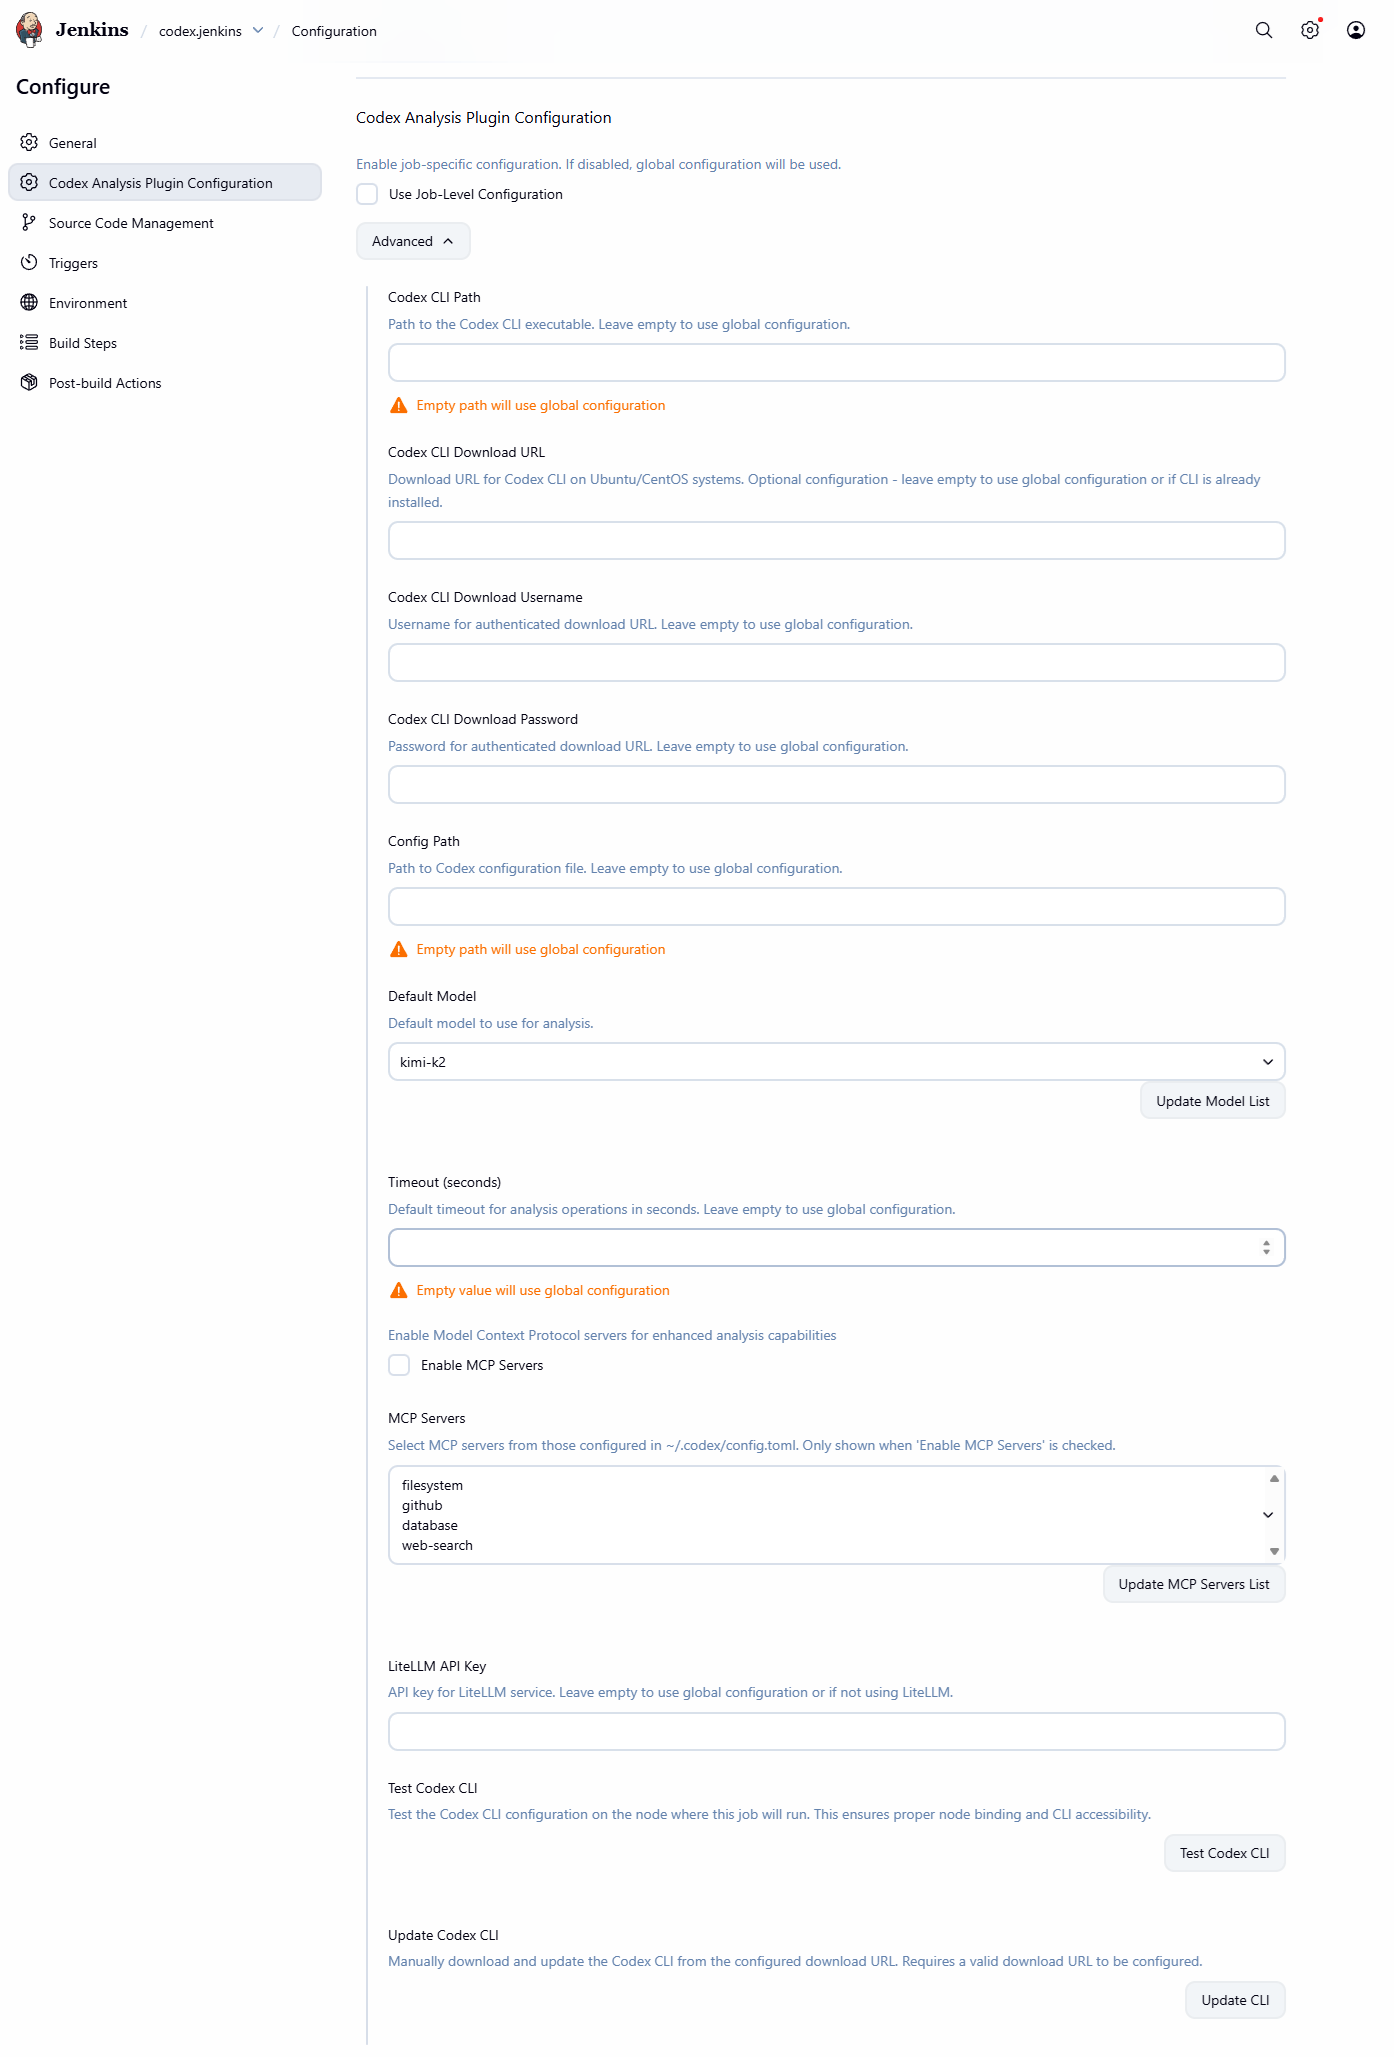
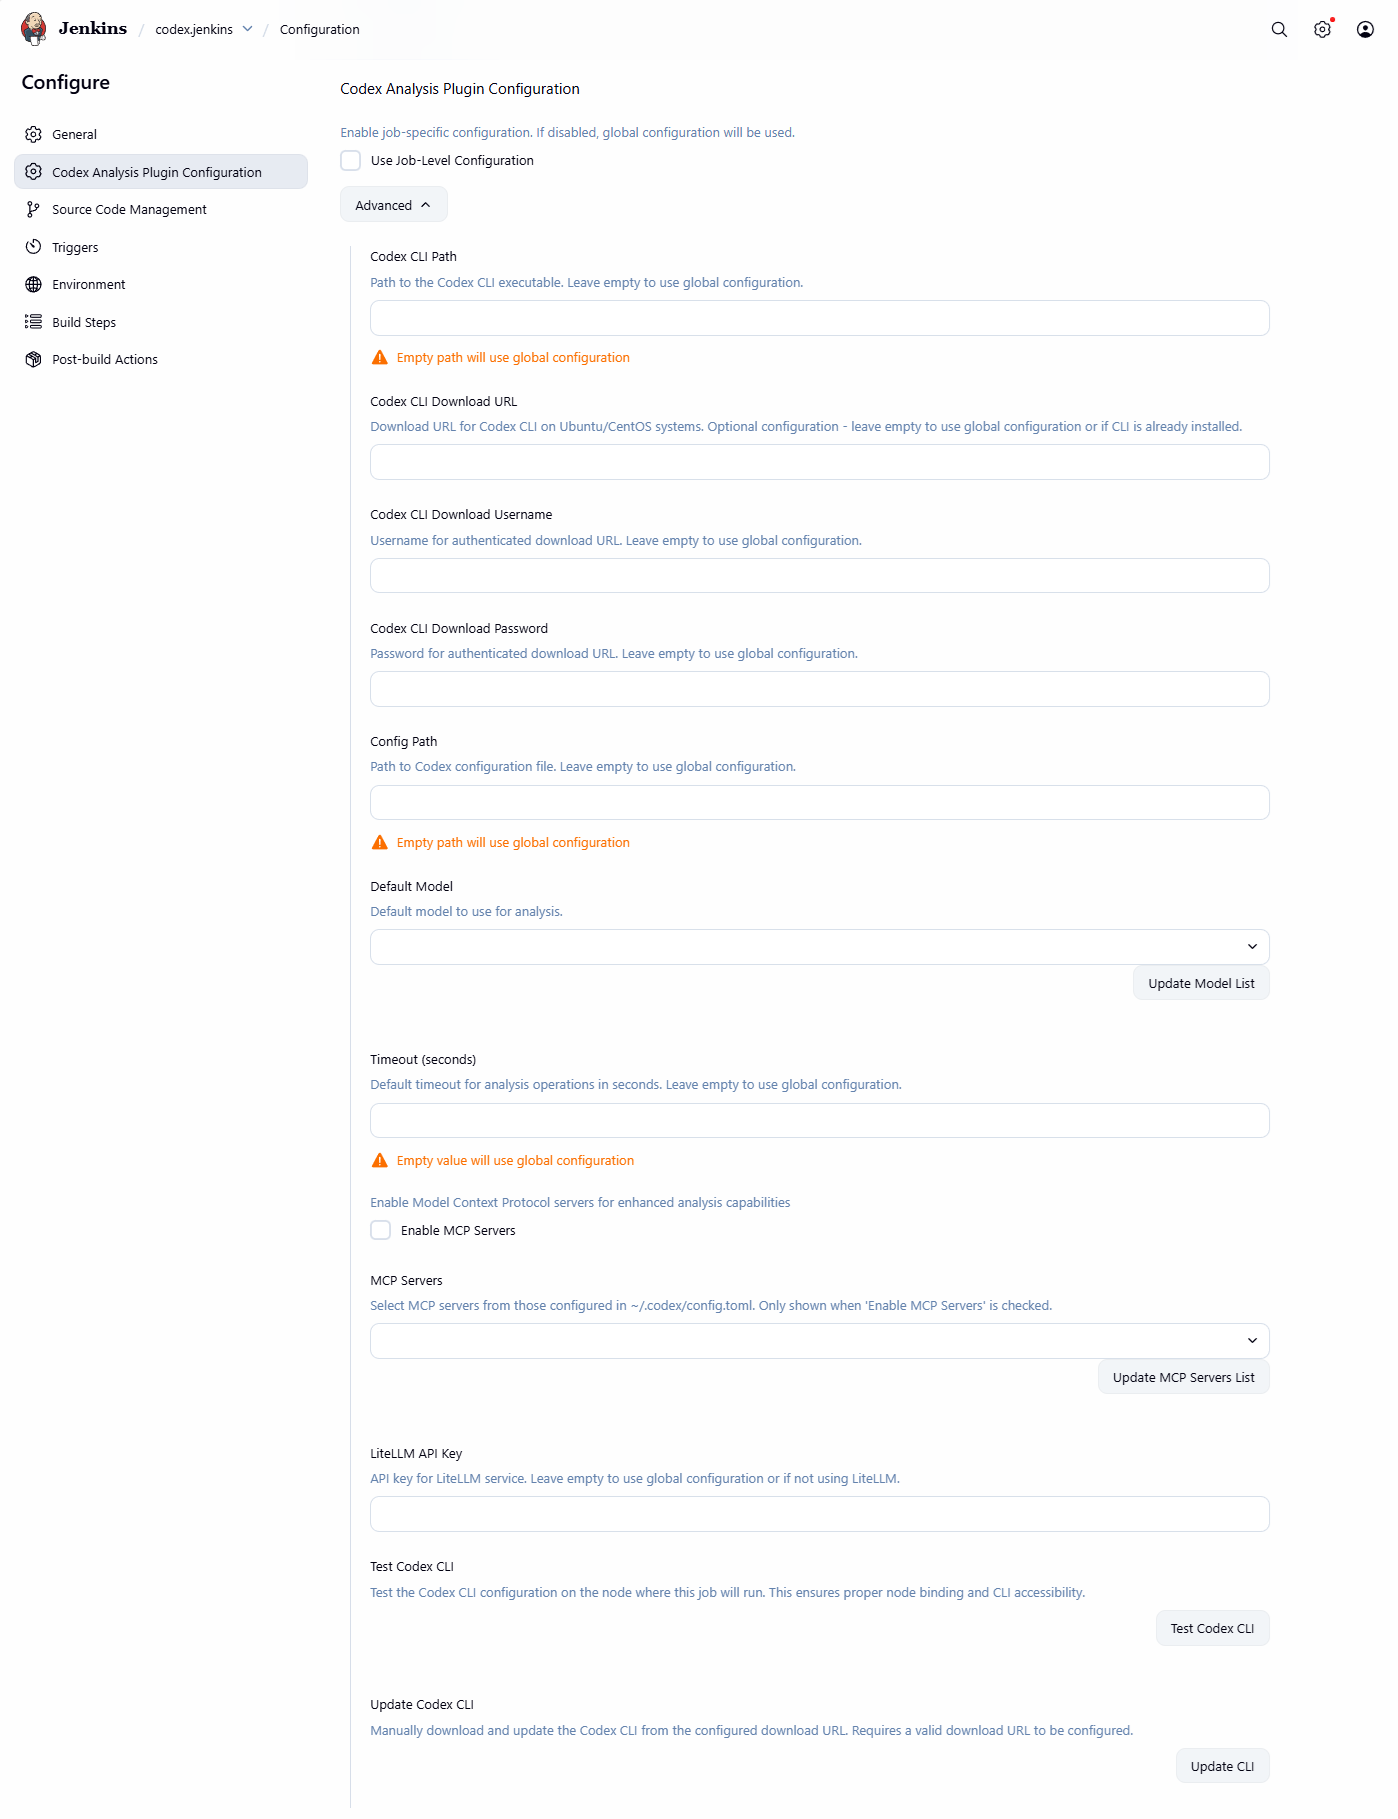
feat(config): set default model and mcp servers dropdowns to empty by default

diff --git a/src/main/java/io/jenkins/plugins/codex/CodexAnalysisJobProperty.java b/src/main/java/io/jenkins/plugins/codex/CodexAnalysisJobProperty.java
@@ -601,14 +601,7 @@ public class CodexAnalysisJobProperty extends JobProperty<Job<?, ?>> {
                 // This is not critical as the user can still configure manually
             }
 
-            // If no servers found in config file, provide some common examples
-            if (serverNames.isEmpty()) {
-                serverNames.add("filesystem");
-                serverNames.add("github");
-                serverNames.add("database");
-                serverNames.add("web-search");
-            }
-
+            // Return empty list if no servers found (no default examples)
             return serverNames;
         }
 
@@ -618,6 +611,9 @@ public class CodexAnalysisJobProperty extends JobProperty<Job<?, ?>> {
          */
         public ListBoxModel doFillSelectedMcpServersItems(@QueryParameter String codexCliPath, @QueryParameter String configPath) {
             ListBoxModel model = new ListBoxModel();
+
+            // Add empty option as default
+            model.add("");
 
             // Try to get MCP servers from Codex CLI if paths are provided
             if (codexCliPath != null && !codexCliPath.trim().isEmpty() &&
@@ -676,6 +672,9 @@ public class CodexAnalysisJobProperty extends JobProperty<Job<?, ?>> {
         public ListBoxModel doFillDefaultModelItems() {
             ListBoxModel model = new ListBoxModel();
 
+            // Add empty option as default
+            model.add("");
+
             // Try to get models from global plugin first (has caching)
             try {
                 CodexAnalysisPlugin plugin = CodexAnalysisPlugin.get();
@@ -692,23 +691,12 @@ public class CodexAnalysisJobProperty extends JobProperty<Job<?, ?>> {
                 // If global plugin is not available, fall through to local method
             }
 
-            // Fall back to local method or default models
+            // Fall back to local method
             String[] availableModels = getAvailableModels();
             if (availableModels.length > 0) {
                 for (String modelName : availableModels) {
                     model.add(modelName);
                 }
-            } else {
-                // If no models available, provide default options
-                model.add("kimi-k2");
-                model.add("gpt-4");
-                model.add("gpt-4-turbo");
-                model.add("gpt-3.5-turbo");
-                model.add("claude-3-opus");
-                model.add("claude-3-sonnet");
-                model.add("claude-3-haiku");
-                model.add("gemini-pro");
-                model.add("gemini-pro-vision");
             }
 
             return model;

diff --git a/src/main/java/io/jenkins/plugins/codex/CodexAnalysisPlugin.java b/src/main/java/io/jenkins/plugins/codex/CodexAnalysisPlugin.java
@@ -360,11 +360,7 @@ public class CodexAnalysisPlugin extends GlobalConfiguration {
             }
         }
 
-        // If no models found, return default list
-        if (models.isEmpty()) {
-            models.addAll(getDefaultModelOptions());
-        }
-
+        // If no models found, return empty list (no default models)
         return models;
     }
 
@@ -392,8 +388,8 @@ public class CodexAnalysisPlugin extends GlobalConfiguration {
         // Check if cache is valid
         long currentTime = System.currentTimeMillis();
         if (cachedModels.isEmpty() || (currentTime - modelCacheTimestamp) > MODEL_CACHE_DURATION) {
-            // Return default models if cache is empty or expired
-            return getDefaultModelOptions();
+            // Return empty list if cache is empty or expired (no default models)
+            return new ArrayList<>();
         }
         return new ArrayList<>(cachedModels);
     }

diff --git a/README.md b/README.md
@@ -75,12 +75,14 @@ You can also configure Codex settings per job by adding the **Codex Analysis Plu
    - **Codex CLI Download Password**: Override the global CLI download password for this job
    - **Manual CLI Update**: Use the "Update CLI" button to manually download and update Codex CLI from the download URL (job-level only)
    - **Config Path**: Override the global config path for this job
-   - **Default Model**: Configure the default model for this job (no default - must be selected from available models)
+   - **Default Model**: Configure the default model for this job (dropdown is empty by default - must click "Update Model List" to populate)
      - Use the "Update Model List" button to fetch available models from Codex CLI
      - Model list is populated dynamically from Codex CLI - no hardcoded models
+     - Dropdown starts empty and only shows models after fetching from CLI
    - **Timeout**: Override the global timeout for this job
    - **Enable MCP Servers**: Enable Model Context Protocol servers for this job (default: disabled)
    - **MCP Servers**: Select MCP servers for this job (only shown when 'Enable MCP Servers' is checked)
+     - Dropdown is empty by default - must click "Update MCP Servers List" to populate
      - Use the "Update MCP Servers List" button to fetch available servers from Codex CLI
      - MCP servers configuration is job-specific
    - **LiteLLM API Key**: Override the global LiteLLM API key for this job (default: empty)
@@ -102,7 +104,7 @@ The plugin supports Model Context Protocol (MCP) servers for enhanced analysis c
 1. **Configuration Detection**: The plugin reads `~/.codex/config.toml` and extracts MCP server names
 2. **Server Selection**: Users can select which servers to enable from a dropdown list
 3. **Multi-Selection**: Multiple servers can be selected for combined functionality
-4. **Fallback Support**: If no servers are found, common examples are provided
+4. **Empty by Default**: The dropdown starts empty - use "Update MCP Servers List" to populate it
 5. **Dynamic Updates**: Use the "Update MCP Servers List" button to refresh the server list from Codex CLI
 
 #### MCP Server Types
@@ -575,6 +577,7 @@ For jobs that need specific Codex CLI configurations:
    - Check node-specific PATH and environment variables
 
 5. **MCP Servers not available**
+   - **Expected Behavior**: The dropdown is empty by default - this is normal. You must click "Update MCP Servers List" to populate it.
    - Ensure MCP servers are properly configured in `~/.codex/config.toml`
    - Use the "Update MCP Servers List" button to refresh the server list from Codex CLI
    - Check that the config file path is correct and accessible
@@ -588,12 +591,13 @@ For jobs that need specific Codex CLI configurations:
    - Model list is cached for 5 minutes - wait for cache expiration or restart Jenkins
 
 7. **No models available in dropdown**
+   - **Expected Behavior**: The dropdown is empty by default - this is normal. You must click "Update Model List" to populate it.
    - **CLI-Only Approach**: The plugin fetches models exclusively from Codex CLI - no hardcoded models are provided
    - Ensure Codex CLI is properly installed and accessible
    - Use the "Update Model List" button to fetch models from CLI
    - Check that `codex models list` command works in your terminal
    - Verify API keys are configured in Codex CLI
-   - If no models appear, the CLI may not be properly configured or accessible
+   - If no models appear after clicking "Update Model List", the CLI may not be properly configured or accessible
 
 8. **Model validation warnings**
    - Model validation shows warnings when no models are available from CLI

diff --git a/README_cn.md b/README_cn.md
@@ -74,12 +74,14 @@
    - **Codex CLI 下载密码**：为此任务覆盖全局 CLI 下载密码
    - **手动 CLI 更新**：使用"更新 CLI"按钮从下载 URL 手动下载和更新 Codex CLI（仅任务级）
    - **配置路径**：为此任务覆盖全局配置路径
-   - **默认模型**：为此任务配置默认模型（无默认值 - 必须从可用模型中选择）
+   - **默认模型**：为此任务配置默认模型（下拉列表默认为空 - 必须点击"更新模型列表"来填充）
      - 使用"更新模型列表"按钮从 Codex CLI 获取可用模型
      - 模型列表从 Codex CLI 动态填充 - 无硬编码模型
+     - 下拉列表默认为空，只有在从 CLI 获取后才会显示模型
    - **超时**：为此任务覆盖全局超时
    - **启用 MCP 服务器**：为此任务启用模型上下文协议服务器（默认：禁用）
    - **MCP 服务器**：为此任务选择 MCP 服务器（仅在选中"启用 MCP 服务器"时显示）
+     - 下拉列表默认为空 - 必须点击"更新 MCP 服务器列表"来填充
      - 使用"更新 MCP 服务器列表"按钮从 Codex CLI 获取可用服务器
      - MCP 服务器配置是任务特定的
    - **LiteLLM API 密钥**：为此任务覆盖全局 LiteLLM API 密钥（默认：空）
@@ -101,7 +103,7 @@
 1. **配置检测**：插件读取 `~/.codex/config.toml` 并提取 MCP 服务器名称
 2. **服务器选择**：用户可以从下拉列表中选择要启用的服务器
 3. **多选**：可以选择多个服务器以组合功能
-4. **回退支持**：如果未找到服务器，将提供常见示例
+4. **默认为空**：下拉列表默认为空 - 使用"更新 MCP 服务器列表"来填充
 5. **动态更新**：使用"更新 MCP 服务器列表"按钮从 Codex CLI 刷新服务器列表
 
 #### MCP 服务器类型
@@ -574,6 +576,7 @@ pipeline {
    - 检查节点特定的 PATH 和环境变量
 
 5. **MCP 服务器不可用**
+   - **预期行为**：下拉列表默认为空 - 这是正常的。您必须点击"更新 MCP 服务器列表"来填充它。
    - 确保 MCP 服务器在 `~/.codex/config.toml` 中正确配置
    - 使用"更新 MCP 服务器列表"按钮从 Codex CLI 刷新服务器列表
    - 检查配置文件路径是否正确且可访问
@@ -587,12 +590,13 @@ pipeline {
    - 模型列表缓存 5 分钟 - 等待缓存过期或重启 Jenkins
 
 7. **下拉列表中无可用模型**
+   - **预期行为**：下拉列表默认为空 - 这是正常的。您必须点击"更新模型列表"来填充它。
    - **仅 CLI 方法**：插件仅从 Codex CLI 获取模型 - 不提供硬编码模型
    - 确保 Codex CLI 已正确安装且可访问
    - 使用"更新模型列表"按钮从 CLI 获取模型
    - 检查 `codex models list` 命令在您的终端中是否工作
    - 验证 API 密钥已在 Codex CLI 中配置
-   - 如果没有模型出现，CLI 可能未正确配置或不可访问
+   - 如果点击"更新模型列表"后仍没有模型出现，CLI 可能未正确配置或不可访问
 
 8. **模型验证警告**
    - 当 CLI 没有可用模型时，模型验证会显示警告
